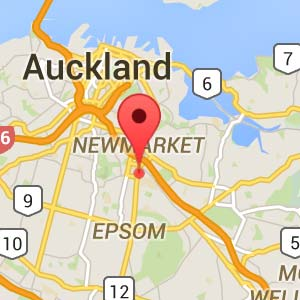
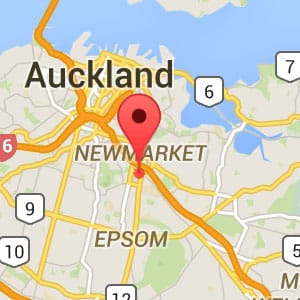
Auckland Academy office address changed to 7/9 Alpers Ave.

diff --git a/user/pages/08.about/01.contact/01.locations/07.nz-auckland/simple_contact.md b/user/pages/08.about/01.contact/01.locations/07.nz-auckland/simple_contact.md
@@ -16,7 +16,7 @@ process:
 
 office:
   location:
-    street: 32 Manukau Road
+    street: 7/9 Alpers Ave
     city: Newmarket
     region: Auckland
     postcode: 1023
